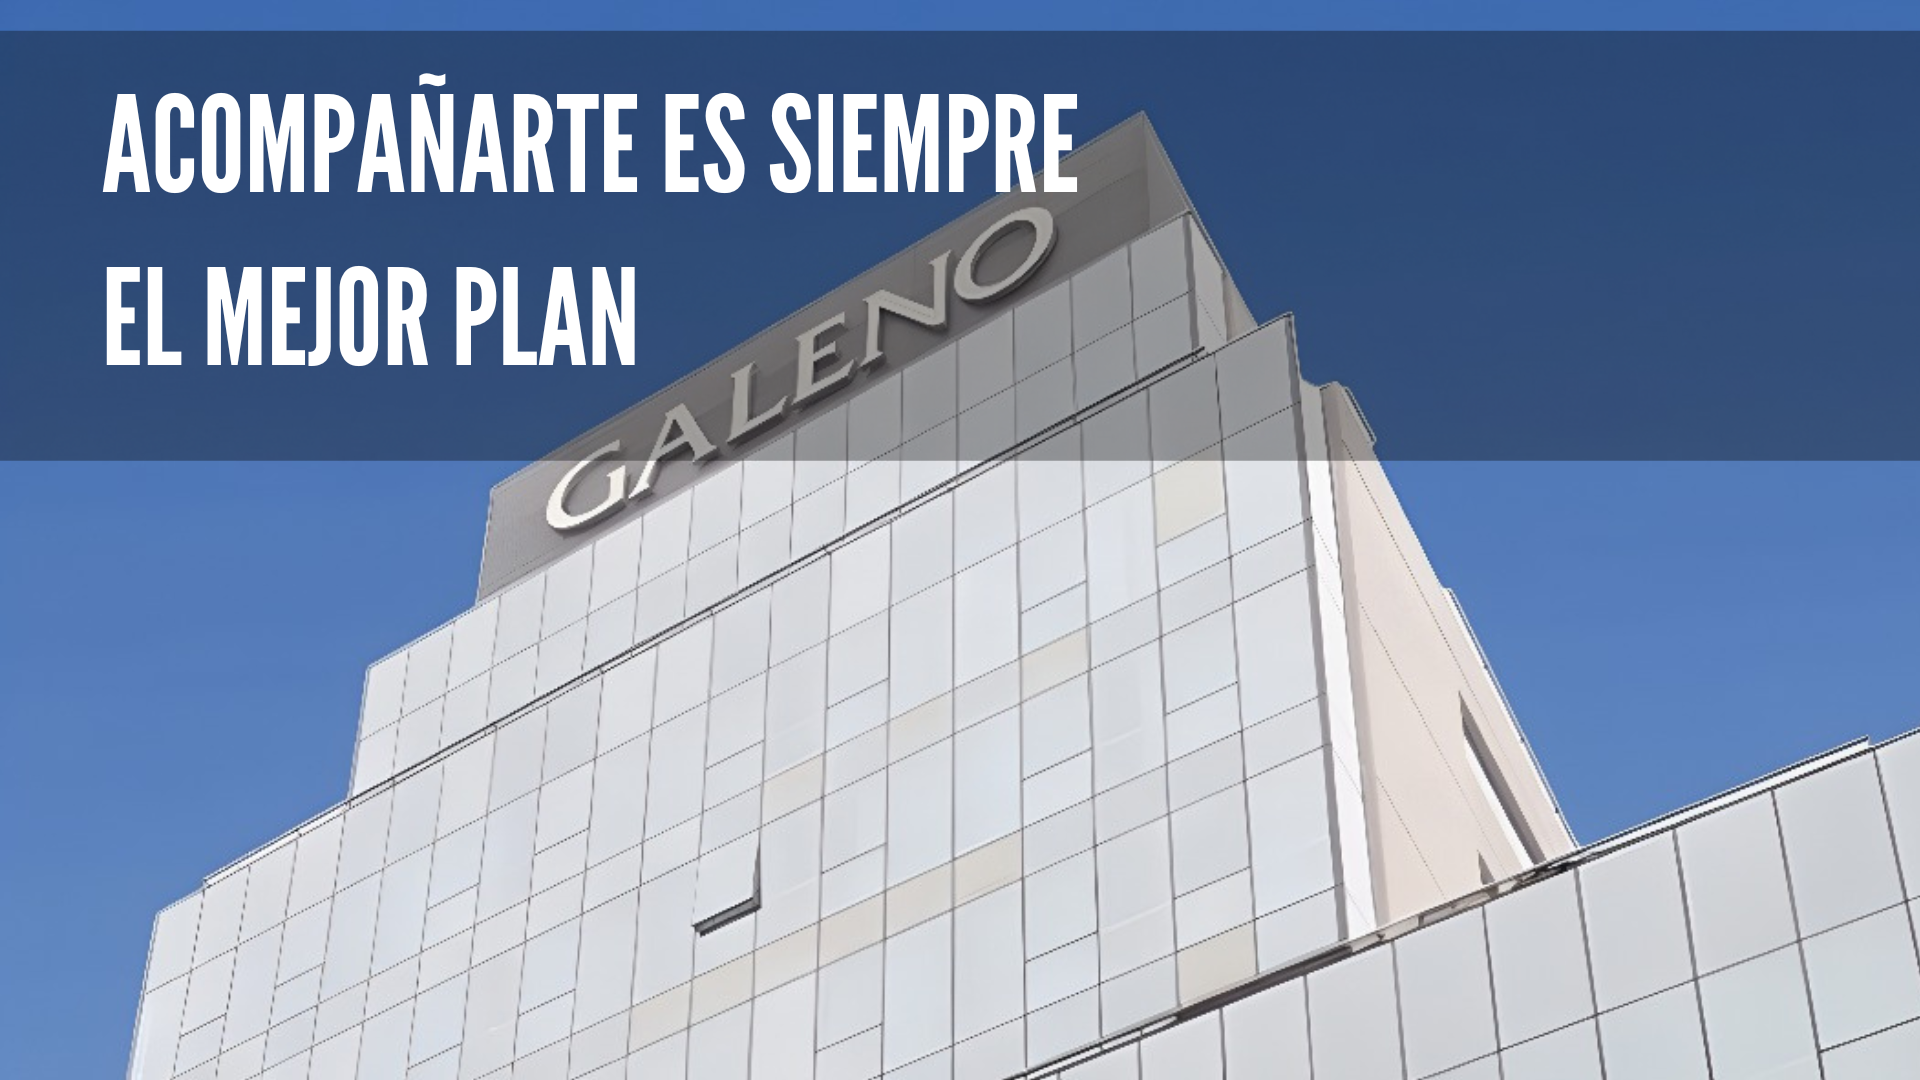
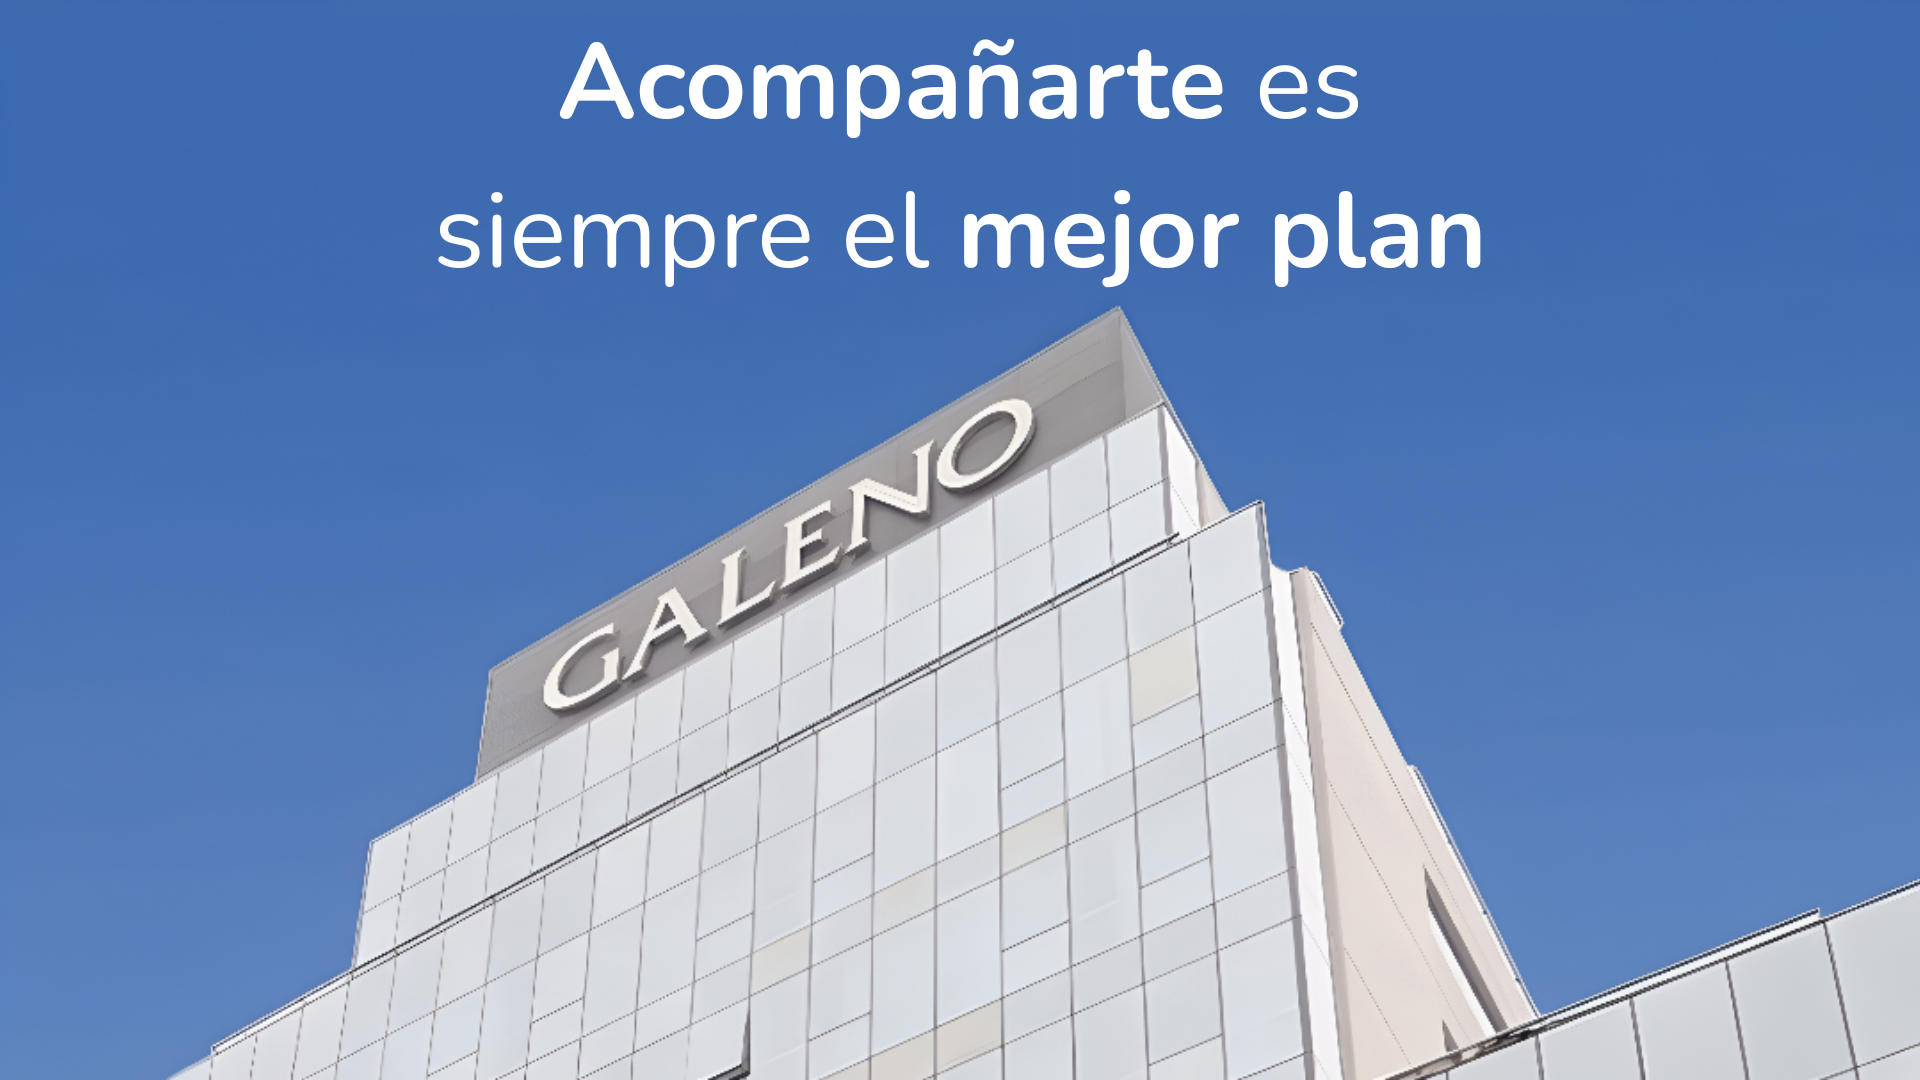
mod varias

diff --git a/index.html b/index.html
@@ -16,20 +16,20 @@
 
 <body>
     <!-- WhatsApp Floating Button -->
-    <a href="https://wa.me/541158052434" class="whatsapp-float" target="_blank">
+    <a href="https://wa.me/541131999693" class="whatsapp-float" target="_blank">
         <i class="fab fa-whatsapp"></i>
     </a>
 
     <!-- Hero Section -->
     <section class="hero">
+        <div class="logo-container">
+            <img src="images/galeno-Photoroom.png" alt="Galeno Logo">
+        </div>
         <div class="hero-content">
-            <div class="logo-container">
-                <img src="images/galeno-Photoroom.png" alt="Galeno Logo">
-            </div>
-            <h1>Encontrá el plan Galeno ideal para vos, tu PyME o empresa</h1>
+            <h1>Encontrá el plan de Galeno ideal para vos, tu PyME o empresa</h1>
             <p>Descubrí la tranquilidad de contar con la mejor cobertura médica, acompañada por atención personalizada
             </p>
-            <a href="https://wa.me/541158052434" class="cta-button" target="_blank">
+            <a href="https://wa.me/541131999693" class="cta-button" target="_blank">
                 <i class="fab fa-whatsapp"></i> Contactar por WhatsApp
             </a>
         </div>
@@ -39,33 +39,13 @@
     <section class="promo-carousel">
         <div class="carousel-container">
             <!-- Slide 1 -->
-            <div class="carousel-slide" style="background-image:url('images/promoempresas.jpg');">
-                <div class="slide-content">
-                    <h2>Promoción para empresas</h2>
-                    <p>Beneficios especiales para PyMEs y grandes empresas</p>
-                    <a href="https://wa.me/541158052434" class="slide-button">Ver planes</a>
-                </div>
-            </div>
+            <div class="carousel-slide" style="background-image:url('images/promoempresas.jpg');"></div>
 
             <!-- Slide 2 (activo por defecto) -->
-            <div class="carousel-slide active"
-                style="background-image:url('images/planjoven\ \(1\).png'); background-position:center;">
-                <div class="slide-content">
-                    <h2>Promoción Plan Joven</h2>
-                    <p>¡Adquirí tu plan Galeno para jóvenes de 18 a 25 años!</p>
-                    <a href="https://wa.me/541158052434" class="slide-button">Más información</a>
-                </div>
-            </div>
+            <div class="carousel-slide active" style="background-image:url('images/planjoven (1).png'); background-position:center;"></div>
 
             <!-- Slide 3 -->
-            <div class="carousel-slide"
-                style="background-image:url('images/Planviajero.png'); background-position:center right;">
-                <div class="slide-content">
-                    <h2>Consultas sin cargo</h2>
-                    <p>Consultas sin cargo con especialistas de primer nivel</p>
-                    <a href="https://wa.me/541158052434" class="slide-button">Conocer más</a>
-                </div>
-            </div>
+            <div class="carousel-slide" style="background-image:url('images/Planviajero.png'); background-position:center right;"></div>
 
             <!-- Flechas -->
             <div class="carousel-nav">
@@ -95,7 +75,8 @@
                 </div>
                 <div class="about-content slide-up">
                     <h2 class="section-title">Rosana Rocha</h2>
-                    <h3>Asesora Comercial directa</h3>
+                    <h3>Asesora Comercial directa de Galeno</h3>
+                    <h4>1131999693</h4>
                     <h4>RosanaFernanda.Rocha@galeno.com.ar</h4>
                     <p></p>
                     <p>Con más de 20 años de experiencia en el sector de medicina prepaga, me especializo en brindar
@@ -364,7 +345,7 @@
                                 </div>
                                 <div class="plan-info">
                                     <h4>Plan 400</h4>
-                                    <p>Cobertura completa sin reintegro</p>
+                                    <p>Cobertura de excelencia</p>
                                 </div>
                                 <div class="card-button">
                                     <i class="fas fa-chevron-right"></i>
@@ -382,7 +363,7 @@
                 <h2>Elegí bienestar. Elegí Galeno.</h2>
                 <p>Contactame hoy mismo y descubrí cómo podemos cuidar de tu salud y la de tus seres queridos con los
                     mejores planes de medicina prepaga.</p>
-                <a href="https://wa.me/541158052434" class="cta-button" target="_blank">
+                <a href="https://wa.me/541131999693" class="cta-button" target="_blank">
                     <i class="fab fa-whatsapp"></i> Contactar por WhatsApp
                 </a>
             </div>
@@ -408,7 +389,7 @@
                 <div class="footer-column">
                     <h3>Contacto</h3>
                     <div class="footer-contact">
-                        <a href="https://wa.me/541158052434" target="_blank"><i class="fab fa-whatsapp"></i>1158052434</a>
+                        <a href="https://wa.me/541131999693" target="_blank"><i class="fab fa-whatsapp"></i>1131999693</a>
                         <a href="mailto:rosana.rocha@galeno.com.ar"><i class="fas fa-envelope"></i>
                             RosanaFernanda.Rocha@galeno.com.ar</a>
                         <a href="#"><i class="fas fa-map-marker-alt"></i> Buenos Aires, Argentina</a>

diff --git a/styles.css b/styles.css
@@ -87,11 +87,9 @@
             /* evita “saltos” en mobile */
             min-height: 700px;
             background:
-                linear-gradient(135deg, rgba(0, 91, 170, .85), rgba(0, 168, 89, .75)),
                 url("images/ACOMPAÑARTE\ ES\ SIEMPRE\ EL\ MEJOR\ PLAN.png") no-repeat;
             background-size: cover;
-            /* mejor que 100% auto */
-            background-position: center 36%;
+            background-position: center 20%;
             display: flex;
             align-items: center;
             justify-content: center;
@@ -107,27 +105,29 @@
 
 
         .hero::before {
-            content: '';
-            position: absolute;
-            top: 0;
-            left: 0;
-            width: 100%;
-            height: 100%;
-            background: linear-gradient(to bottom, rgba(0, 0, 0, 0.4) 0%, rgba(0, 0, 0, 0.1) 100%);
-            z-index: 1;
+            /* Eliminado overlay para que no tape la imagen */
+            content: none;
         }
 
         .hero-content {
             position: relative;
             z-index: 2;
             max-width: 900px;
+            background: rgba(0,0,0,0.45);
+            border-radius: 18px;
+            padding: 32px 24px;
+            display: inline-block;
             padding: 20px;
             animation: fadeIn 1.5s ease-out;
         }
 
         .logo-container {
-            margin-bottom: 40px;
+            position: absolute;
+            top: 40px;
+            left: 32px;
+            margin-bottom: 0;
             animation: slideDown 1s ease-out;
+            z-index: 10;
         }
 
         .logo-container img {
